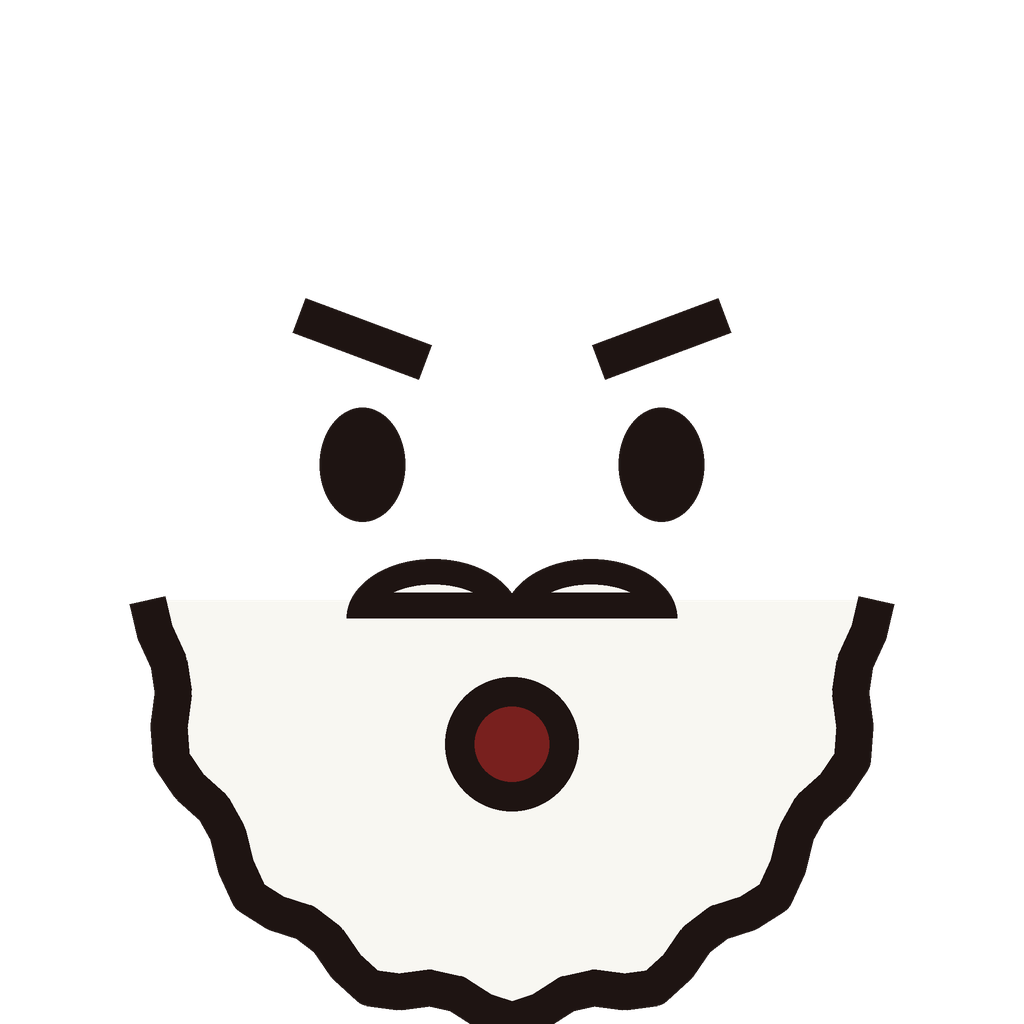
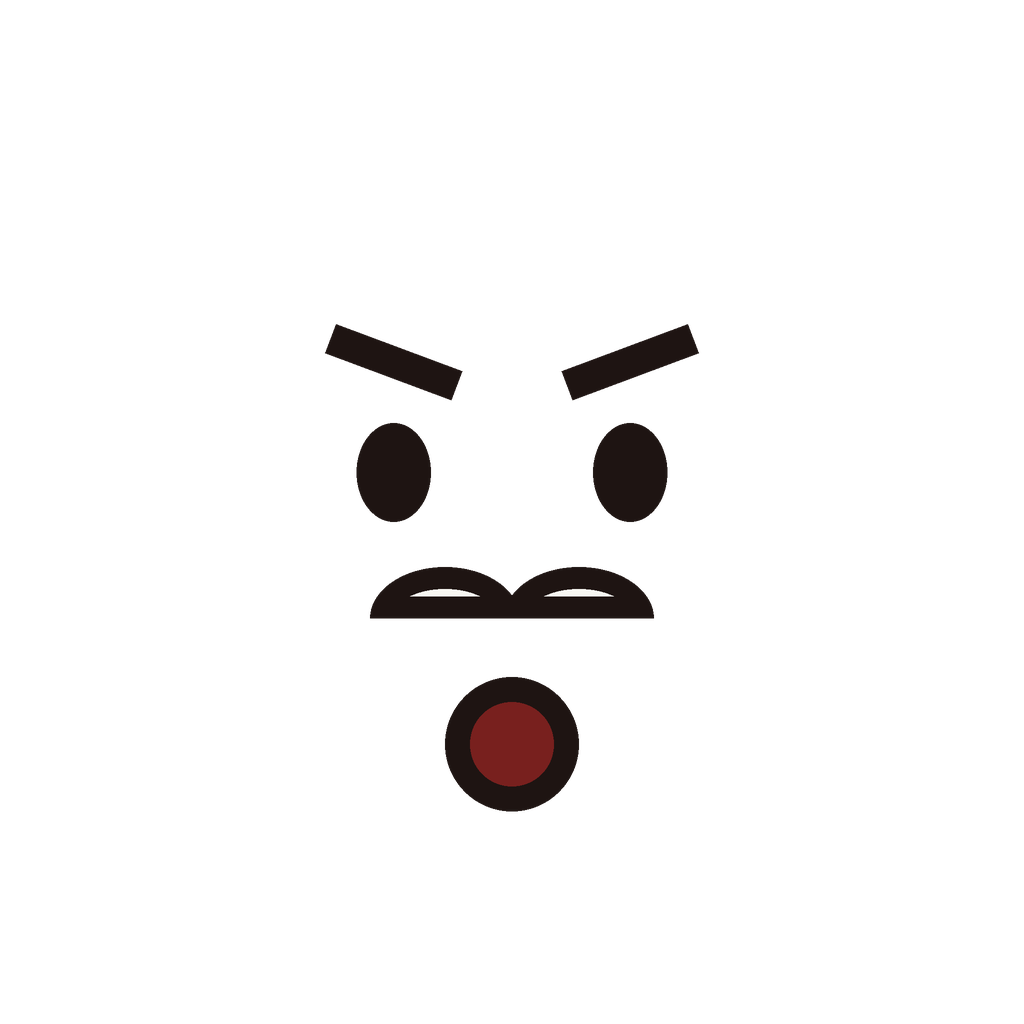
Add fast bake pipeline and character redesign (WIP)
Bake lighting and ink lines into a texture atlas, render frames with
Workbench. Bowl-cut hair, knit beanie, 3D beard, pose presets, more
expressions.

Claude-Session: https://claude.ai/code/session_01B5sgCVepJEDXiVLGvcjf3z

diff --git a/production/pipeline/characters.py b/production/pipeline/characters.py
@@ -55,15 +55,34 @@ class Character:
         # head
         hz=z_t+torso/2+R*0.82; self.head_z=hz
         head=sph((0,0,hz),(R,R*0.93,R*0.97),mat("skin",SKIN,0.45,0.45,emit=0.55),seg=48); self.part(head,0.013)
-        if hair: self.part(sph((0,0.04,hz+R*0.25),(R*1.04,R*0.98,R*0.78),mat(self.name+"_hair",hair,0.55,0.35),seg=40),0.012)
+        if hair:
+            import bmesh
+            o=sph((0,0,hz),(R*1.05,R*0.98,R*1.02),mat(self.name+"_hair",hair,0.5,0.4),seg=48)
+            bm=bmesh.new(); bm.from_mesh(o.data)
+            cut=bmesh.ops.bisect_plane(bm,geom=bm.verts[:]+bm.edges[:]+bm.faces[:],plane_co=(0,0,R*0.18),plane_no=(0,-0.45,1.0),clear_inner=True)
+            bm.to_mesh(o.data); bm.free(); self.part(o)
+            sol=o.modifiers.new("th",'SOLIDIFY'); sol.thickness=R*0.06; sol.offset=1
+            o["no_ink"]=1
         if hat=="cap":
             hc=(0.17,0.3,0.62); self.part(sph((0,0.01,hz+R*0.5),(R*1.02,R*0.98,R*0.62),mat(self.name+"_cap",hc,0.5,0.3),seg=40),0.012)
             bill=cyl((0,-R*0.95,hz+R*0.42),R*0.62,0.025,mat(self.name+"_cap",hc,0.5,0.3),verts=40,rot=(0.15,0,0)); bill.scale=(1,0.55,1); self.part(bill,0.008)
             self.part(sph((0,-R*0.92,hz+R*0.72),(0.03,0.012,0.03),mat("brass",(0.85,0.6,0.15),0.3,0.6)))
+        if hat=="beanie":
+            bc=mat(self.name+"_beanie",(0.82,0.12,0.12),0.85,0.1)
+            import bmesh
+            o=sph((0,0,hz),(R*1.06,R*1.02,R*1.12),bc,seg=48); bm=bmesh.new(); bm.from_mesh(o.data)
+            bmesh.ops.bisect_plane(bm,geom=bm.verts[:]+bm.edges[:]+bm.faces[:],plane_co=(0,0,R*0.38),plane_no=(0,-0.15,1),clear_inner=True); bm.to_mesh(o.data); bm.free(); self.part(o)
+            cuff=cyl((0,0.01,hz+R*0.42),R*1.09,R*0.32,mat(self.name+"_cuff",(0.72,0.08,0.08),0.9,0.05),verts=48,rot=(-0.15,0,0),bevel=0); self.part(cuff)
+            self.part(sph((0,0.03,hz+R*1.18),(R*0.24,R*0.24,R*0.24),mat(self.name+"_pom",(0.97,0.95,0.9),0.95,0.05),seg=20))
         if hat=="souwester":
             hc=(1.0,0.66,0.02); m=mat(self.name+"_hat",hc,0.35,0.5)
             self.part(sph((0,0.04,hz+R*0.62),(R*1.0,R*0.96,R*0.66),m,seg=40),0.012)
             brim=cyl((0,0.1,hz+R*0.62),R*1.3,0.07,m,verts=48,r2=R*0.98,rot=(-0.3,0,0)); self.part(brim,0.01)
+        if self.beard:
+            bw=mat("beard",(0.97,0.96,0.93),0.9,0.1,emit=0.35)
+            self.part(sph((0,-R*0.3,hz-R*0.5),(R*0.92,R*0.62,R*0.72),bw,seg=40))
+            for k,(bx,bz) in enumerate([(-0.55,-0.95),(0,-1.1),(0.55,-0.95)]):
+                self.part(sph((R*bx,-R*0.35,hz+R*bz),(R*0.36,R*0.32,R*0.3),bw,seg=24))
         # face decal: always looks at the camera
         piv=bpy.data.objects.new(self.name+"_facepiv",None); self.faces_coll.objects.link(piv); piv.parent=self.root; piv.location=(0,0,hz)
         con=piv.constraints.new('TRACK_TO'); con.target=bpy.context.scene.camera; con.track_axis='TRACK_Z'; con.up_axis='UP_Y'
@@ -76,7 +95,7 @@ class Character:
         for l in me.loops:
             co=me.vertices[l.vertex_index].co; uv.data[l.index].uv=(co.x/(2.6*R)+0.5,co.y/(2.6*R)+0.5)
         fp=bpy.data.objects.new(self.name+"_face",me)
-        self.faces_coll.objects.link(fp); fp.parent=piv; fp.location=(0,0,R*1.03); fp.visible_shadow=False
+        self.faces_coll.objects.link(fp); fp.parent=piv; fp.location=(0,0,R*(1.12 if self.beard else 1.03)); fp.visible_shadow=False
         self.face_mat=image_mat(self.name+"_facemat",f"{FACEDIR}/{self.name}_{self.face_name}.png",emit=0.6,rough=0.9)
         fp.data.materials.append(self.face_mat); self.face_obj=fp
         # legs + shoes
@@ -88,15 +107,27 @@ class Character:
             if pts is None: pts=[(0.05,0,-0.02),(0.12,-0.02,-0.25),(0.14,-0.05,-0.5)]
             P=[(side*(self.sh_x+a),b,self.sh_z+c) for a,b,c in pts]
             self.limb(tube([(side*(self.sh_x-0.04),0,self.sh_z)]+P,0.011,mat("limb",legs,0.6)))
-            self.limb(sph(P[-1],(0.03,0.03,0.03),mat("limb",legs,0.6)))
+            self.limb(sph(P[-1],(0.017,0.017,0.017),mat("limb",legs,0.6)))
         return self
     def set_face(self,face):
         img=bpy.data.images.load(f"{FACEDIR}/{self.name}_{face}.png",check_existing=True)
         for n in self.face_mat.node_tree.nodes:
             if n.type=='TEX_IMAGE': n.image=img
 
-def keeper(loc,yaw=0,face="smug",arms=None):
-    return Character("keeper",loc,yaw,face=face).build(R=0.26,coat=(1.0,0.66,0.02),buttons=3,hat="souwester",beard=True,
+POSES={  # per arm: points relative to the shoulder (x outward, y forward is negative, z up)
+ "rest":  ([(0.05,0,-0.05),(0.1,-0.02,-0.28),(0.12,-0.04,-0.5)],)*2,
+ "hips":  ([(0.08,0,-0.06),(0.2,0.02,-0.2),(0.04,-0.04,-0.36)],)*2,
+ "shrug": ([(0.08,0,-0.06),(0.17,-0.02,-0.22),(0.32,-0.08,-0.08)],)*2,
+ "panic": ([(0.08,0,0.02),(0.16,-0.04,0.2),(0.2,-0.08,0.44)],)*2,
+ "hold":  ([(0.05,-0.04,-0.06),(0.08,-0.18,-0.22),(0.0,-0.34,-0.16)],)*2,
+ "point": ([(0.05,0,-0.05),(0.1,-0.02,-0.28),(0.12,-0.04,-0.5)],[(0.08,-0.06,-0.02),(0.18,-0.22,0.02),(0.3,-0.42,0.1)]),
+ "wave":  ([(0.05,0,-0.05),(0.1,-0.02,-0.28),(0.12,-0.04,-0.5)],[(0.08,0,0.0),(0.2,-0.02,0.08),(0.26,-0.06,0.34)]),
+ "explain":([(0.05,-0.03,-0.06),(0.12,-0.16,-0.18),(0.24,-0.3,-0.08)],[(0.05,0,-0.05),(0.1,-0.02,-0.28),(0.12,-0.04,-0.5)]),
+}
+def keeper(loc,yaw=0,face="smug",arms=None,pose=None):
+    arms=list(POSES[pose]) if pose else arms
+    return Character("keeper",loc,yaw,face=face).build(R=0.3,torso_w=0.16,coat=(1.0,0.66,0.02),buttons=3,hat="beanie",beard=True,
         shirt=(1.0,0.66,0.02),shoes=(0.08,0.06,0.05),arms=arms)
-def engineer(loc,yaw=0,face="happy",arms=None):
-    return Character("engineer",loc,yaw,face=face).build(R=0.25,hat="cap",tie=(0.17,0.32,0.68),arms=arms)
+def engineer(loc,yaw=0,face="happy",arms=None,pose=None):
+    arms=list(POSES[pose]) if pose else arms
+    return Character("engineer",loc,yaw,face=face).build(R=0.29,torso_w=0.15,hair=(0.4,0.22,0.1),tie=(0.17,0.32,0.68),arms=arms)

diff --git a/production/pipeline/bake.py b/production/pipeline/bake.py
@@ -1,0 +1,109 @@
+"""Fast pipeline: bake lighting + ink lines into one texture atlas, then render frames with Workbench (~1 s/frame)."""
+import bpy, bmesh, math, os, time
+import numpy as np
+from toon import INK
+
+def to_mesh(objs):
+    bpy.ops.object.select_all(action='DESELECT')
+    for o in objs: o.select_set(True)
+    bpy.context.view_layer.objects.active=objs[0]
+    bpy.ops.object.convert(target='MESH')
+    return [o for o in bpy.context.selected_objects]
+
+def unwrap(objs,margin=0.003):
+    for o in objs:
+        if "bake" not in o.data.uv_layers:
+            if len(o.data.uv_layers)==0: o.data.uv_layers.new(name="UVMap")
+            o.data.uv_layers[0].active_render=True
+            uv=o.data.uv_layers.new(name="bake")
+        o.data.uv_layers.active=o.data.uv_layers["bake"]
+    bpy.ops.object.select_all(action='DESELECT')
+    for o in objs: o.select_set(True)
+    bpy.context.view_layer.objects.active=objs[0]
+    bpy.ops.object.mode_set(mode='EDIT'); bpy.ops.mesh.select_all(action='SELECT')
+    bpy.ops.uv.smart_project(angle_limit=math.radians(48),island_margin=margin,area_weight=0.0,correct_aspect=True,scale_to_bounds=False)
+    bpy.ops.object.mode_set(mode='OBJECT')
+
+def _target(objs,img):
+    seen=set()
+    for o in objs:
+        for m in o.data.materials:
+            if not m or m.name in seen: continue
+            seen.add(m.name); nt=m.node_tree
+            n=nt.nodes.get("__bake") or nt.nodes.new('ShaderNodeTexImage'); n.name="__bake"; n.image=img
+            for x in nt.nodes: x.select=False
+            n.select=True; nt.nodes.active=n
+
+def bake_pass(objs,kind,size,samples,filt=None,float_buf=True):
+    img=bpy.data.images.new(f"bake_{kind}_{'_'.join(sorted(filt or []))}",size,size,float_buffer=float_buf,alpha=False)
+    _target(objs,img); sc=bpy.context.scene; sc.render.engine='CYCLES'; sc.cycles.samples=samples; sc.cycles.use_denoising=False
+    sc.render.bake.margin=6; sc.render.bake.use_clear=True
+    bpy.ops.object.select_all(action='DESELECT')
+    for o in objs: o.select_set(True)
+    bpy.context.view_layer.objects.active=objs[0]
+    t=time.time()
+    if filt: bpy.ops.object.bake(type=kind,pass_filter=set(filt))
+    else: bpy.ops.object.bake(type=kind)
+    print(f"BAKE {kind} {filt} {size}px {samples}spp {time.time()-t:.1f}s",flush=True)
+    return img
+
+def img_np(img):
+    a=np.empty(img.size[0]*img.size[1]*4,np.float32); img.pixels.foreach_get(a); return a.reshape(img.size[1],img.size[0],4)[...,:3]
+
+def ink_mask(objs,size,width_px,min_angle=40,skip=()):
+    """Rasterise sharp edges (crease > min_angle, or open borders) in bake-UV space -> ink line mask."""
+    from PIL import Image, ImageDraw
+    m=Image.new("L",(size,size),0); d=ImageDraw.Draw(m)
+    for o in objs:
+        if o.name.startswith(skip) or o.get("no_ink"): continue
+        bm=bmesh.new(); bm.from_mesh(o.data); uvl=bm.loops.layers.uv["bake"]
+        for f in bm.faces:
+            for l in f.loops:
+                e=l.edge
+                if len(e.link_faces)==2:
+                    ang=math.degrees(e.calc_face_angle(0))
+                    if ang<min_angle: continue
+                a=l[uvl].uv; b=l.link_loop_next[uvl].uv
+                d.line([(a.x*size,(1-a.y)*size),(b.x*size,(1-b.y)*size)],fill=255,width=width_px)
+        bm.free()
+    return np.asarray(m,np.float32)/255.0
+
+def compose(alb,light,emit,ink,exposure=1.0,sat=1.15):
+    """final = albedo * light + emission, gentle filmic curve, saturation, ink lines."""
+    import cv2  # only for fast resize
+    H=alb.shape[0]
+    L=cv2.resize(light,(H,H),interpolation=cv2.INTER_CUBIC); E=cv2.resize(emit,(H,H),interpolation=cv2.INTER_CUBIC)
+    c=alb*L*exposure+E
+    c=c/(1+0.35*c)*1.35            # soft shoulder so lamps/sun don't clip harshly
+    c=np.clip(c,0,1)**(1/2.2)      # linear -> display
+    g=c.mean(-1,keepdims=True); c=np.clip(g+(c-g)*sat,0,1)
+    k=cv2.GaussianBlur(ink,(0,0),0.8)[...,None]
+    c=c*(1-k)+np.array([x**(1/2.2) for x in INK])*k
+    return c
+
+def apply_baked(objs,final,name="atlas"):
+    """Swap every material for one flat texture material using the baked atlas (what Workbench shows)."""
+    H=final.shape[0]; img=bpy.data.images.new(name,H,H,alpha=False)
+    rgba=np.concatenate([final[::-1],np.ones((H,H,1),np.float32)],-1)   # numpy rows top->bottom, Blender bottom->top
+    img.pixels.foreach_set(rgba.astype(np.float32).ravel()); img.pack()
+    m=bpy.data.materials.new(name); m.use_nodes=True; nt=m.node_tree; n=nt.nodes; n.clear()
+    out=n.new('ShaderNodeOutputMaterial'); em=n.new('ShaderNodeEmission'); uv=n.new('ShaderNodeUVMap'); uv.uv_map="bake"
+    t=n.new('ShaderNodeTexImage'); t.image=img; nt.links.new(uv.outputs[0],t.inputs[0]); nt.links.new(t.outputs[0],em.inputs[0]); nt.links.new(em.outputs[0],out.inputs[0]); n.active=t
+    for o in objs:
+        o.data.materials.clear(); o.data.materials.append(m)
+        o.data.uv_layers["bake"].active_render=True
+    return m
+
+def ink_shell(objs,thick=0.008,min_dim=0.0):
+    """Inverted-hull silhouette lines; with Workbench backface culling only the back shell shows -> outline."""
+    hm=bpy.data.materials.get("inkshell") or bpy.data.materials.new("inkshell")
+    hm.diffuse_color=(*INK,1)
+    for o in objs:
+        if o.get("no_shell"): continue
+        o.data.materials.append(hm); s=o.modifiers.new("shell",'SOLIDIFY'); s.thickness=thick; s.offset=1; s.use_flip_normals=True; s.material_offset=len(o.data.materials)-1; s.use_rim=False
+
+def workbench(sc,aa='8'):
+    sc.render.engine='BLENDER_WORKBENCH'; sh=sc.display.shading
+    sh.light='FLAT'; sh.color_type='TEXTURE'; sh.show_backface_culling=True; sh.show_object_outline=False
+    sh.show_cavity=False; sh.show_shadows=False; sc.display.render_aa=aa
+    sc.view_settings.view_transform='Standard'; sc.view_settings.look='None'; sc.view_settings.exposure=0

diff --git a/production/pipeline/faces.py b/production/pipeline/faces.py
@@ -6,8 +6,8 @@ INK=(30,20,18,255); WHITE=(255,255,255,255)
 S=2048; C=S//2; RP=S/2.6          # pixels per head radius
 def P(x,y): return (C+x*RP, C-y*RP)
 def box(x0,y0,x1,y1): a=P(x0,y1); b=P(x1,y0); return [a[0],a[1],b[0],b[1]]
-LW=int(0.095*RP)
-def eyes(d,kind,ex=0.38,ey=0.12,size=1.45):
+LW=int(0.08*RP)
+def eyes(d,kind,ex=0.3,ey=0.1,size=1.25):
     for s in (-1,1):
         x=s*ex
         if kind=="dot": d.ellipse(box(x-0.075*size,ey-0.1*size,x+0.075*size,ey+0.1*size),fill=INK)
@@ -18,12 +18,15 @@ def eyes(d,kind,ex=0.38,ey=0.12,size=1.45):
         elif kind=="happy": d.arc(box(x-0.18,ey-0.15,x+0.18,ey+0.18),200,340,fill=INK,width=LW)
         elif kind=="closed": d.line([P(x-0.17,ey-0.02),P(x+0.17,ey-0.02)],fill=INK,width=LW)
         elif kind=="squint": d.line([P(x-0.13,ey+0.04),P(x+0.13,ey-0.04*s*-1)],fill=INK,width=LW)
-def brows(d,kind,ex=0.38,by=0.42):
+def brows(d,kind,ex=0.3,by=0.36):
     for s in (-1,1):
         x=s*ex
         if kind=="flat": d.line([P(x-0.15,by),P(x+0.15,by)],fill=INK,width=LW)
         elif kind=="up": d.arc(box(x-0.16,by-0.08,x+0.16,by+0.14),200,340,fill=INK,width=LW)
         elif kind=="angry": d.line([P(x-0.16,by+(0.08 if s<0 else -0.04)),P(x+0.16,by+(-0.04 if s<0 else 0.08))],fill=INK,width=LW)
+        elif kind=="skeptical":
+            if s<0: d.arc(box(x-0.16,by-0.02,x+0.16,by+0.24),200,340,fill=INK,width=LW)
+            else: d.line([P(x-0.16,by-0.04),P(x+0.16,by-0.04)],fill=INK,width=LW)
         elif kind=="worried": d.line([P(x-0.16,by+(-0.04 if s<0 else 0.08)),P(x+0.16,by+(0.08 if s<0 else -0.04))],fill=INK,width=LW)
 def mouth(d,kind,my=-0.4):
     if kind=="smirk": d.arc(box(-0.18,my-0.06,0.32,my+0.22),20,150,fill=INK,width=LW)
@@ -49,18 +52,23 @@ def beard(d):
     d.line(pts,fill=INK,width=LW,joint="curve")
     d.chord(box(-0.42,-0.42,0.02,-0.12),180,360,fill=BW,outline=INK,width=int(LW*0.7))
     d.chord(box(-0.02,-0.42,0.42,-0.12),180,360,fill=BW,outline=INK,width=int(LW*0.7))
-def glasses(d,ex=0.38,ey=0.12):
-    for s in (-1,1): d.ellipse(box(s*ex-0.25,ey-0.25,s*ex+0.25,ey+0.25),outline=INK,width=int(LW*0.8))
-    d.line([P(-0.13,ey),P(0.13,ey)],fill=INK,width=int(LW*0.7))
+def moustache(d):
+    BW=(248,247,242,255)
+    d.chord(box(-0.36,-0.4,0.02,-0.14),180,360,fill=BW,outline=INK,width=int(LW*0.7))
+    d.chord(box(-0.02,-0.4,0.36,-0.14),180,360,fill=BW,outline=INK,width=int(LW*0.7))
+def glasses(d,ex=0.3,ey=0.1):
+    for s in (-1,1): d.ellipse(box(s*ex-0.21,ey-0.21,s*ex+0.21,ey+0.21),outline=INK,width=int(LW*0.8))
+    d.line([P(-0.09,ey),P(0.09,ey)],fill=INK,width=int(LW*0.7))
 def make(path,e,m,b=None,extra=()):
     im=Image.new("RGBA",(S,S),(0,0,0,0)); d=ImageDraw.Draw(im)
-    if "beard" in extra: beard(d)
+    if "beard" in extra: moustache(d)
     eyes(d,e); brows(d,b) if b else None; mouth(d,m,-0.5 if "beard" in extra else -0.42)
     if "glasses" in extra: glasses(d)
     im.resize((1024,1024),Image.LANCZOS).save(path)
 EXPR={"smug":("smug","smirk","flat"),"happy":("happy","grin",None),"neutral":("dot","flat","flat"),
       "shock":("wide","open","up"),"angry":("dot","shout","angry"),"worried":("dot","frown","worried"),
-      "laugh":("happy","open",None),"sleepy":("closed","flat",None)}
+      "laugh":("happy","open",None),"sleepy":("closed","flat",None),
+      "skeptical":("dot","flat","skeptical"),"evil":("smug","smirk","angry"),"panic":("wide","shout","worried")}
 def build(name,extra,outdir):
     os.makedirs(outdir,exist_ok=True)
     for k,(e,m,b) in EXPR.items(): make(f"{outdir}/{name}_{k}.png",e,m,b,extra)

diff --git a/production/pipeline/fast_test.py b/production/pipeline/fast_test.py
@@ -1,0 +1,37 @@
+import bpy, sys, os, time, math
+sys.path.insert(0,os.path.dirname(os.path.abspath(__file__)))
+os.environ.setdefault("FAST","1")
+from toon import *
+from sets import cottage
+import characters as ch, bake
+OUT=sys.argv[-1]; T0=time.time()
+sc=reset(pct=100)
+cam,tgt=camera(sc,(1.25,-2.9,1.4),(-0.05,0.45,1.15),lens=34,fstop=5.6,focus=3.4)
+os.environ.update(SUN="4",KEY="6000",FILL="12",FRONT="25")
+cottage.build(); cottage.lights()
+ch.keeper((-0.45,0.25,0),yaw=math.radians(-25),face="smug",arms=[[(0.06,0,-0.05),(0.13,-0.03,-0.28),(0.16,-0.06,-0.5)],[(0.06,0,-0.05),(0.2,-0.05,-0.2),(0.34,-0.1,-0.02)]])
+ch.engineer((0.5,0.65,0),yaw=math.radians(-40),face="happy",arms=[[(0.05,-0.02,-0.04),(0.16,-0.12,-0.12),(0.3,-0.25,0.08)],[(0.05,0,-0.05),(0.1,-0.02,-0.28),(0.11,-0.04,-0.5)]])
+faces=set(bpy.data.collections["faces"].all_objects)
+objs=[o for o in sc.objects if o.type in ('MESH','CURVE') and o not in faces]
+objs=bake.to_mesh(objs); objs=[o for o in objs if o.type=='MESH']
+print("objects",len(objs),"build",round(time.time()-T0,1),flush=True)
+t=time.time(); bake.unwrap(objs); print("UNWRAP",round(time.time()-t,1),flush=True)
+AS=int(os.environ.get("ATLAS","4096")); LS=int(os.environ.get("LIGHT","2048")); SPP=int(os.environ.get("SPP","32"))
+alb=bake.img_np(bake.bake_pass(objs,'DIFFUSE',AS,1,['COLOR']))
+lit=bake.img_np(bake.bake_pass(objs,'DIFFUSE',LS,SPP,['DIRECT','INDIRECT']))
+emi=bake.img_np(bake.bake_pass(objs,'EMIT',LS,1))
+t=time.time(); ink=bake.ink_mask(objs,AS,int(os.environ.get("INKW","5")),skip=("view","keeper","engineer","limb","tube","rug","curtain"))
+print("INK",round(time.time()-t,1),flush=True)
+# light can be noisy at low spp: smooth it a little (shadow edges stay readable)
+import cv2, numpy as np
+lit=cv2.bilateralFilter(lit,7,0.15,4)
+final=bake.compose(alb,lit,emi,ink,exposure=float(os.environ.get("EXPO","1.0")),sat=float(os.environ.get("SAT","1.2")))
+cv2.imwrite(OUT+"_atlas.jpg",(final[...,::-1]*255).astype(np.uint8)[::4,::4])
+bake.apply_baked(objs,final)
+shell_objs=[o for o in objs]
+bake.ink_shell(shell_objs,float(os.environ.get("SHELL","0.008")))
+bake.workbench(sc)
+bpy.ops.wm.save_as_mainfile(filepath=OUT+".blend")
+print("PREP TOTAL",round(time.time()-T0,1),flush=True)
+for i in range(3):
+    sc.render.filepath=f"{OUT}_f{i}.png"; t=time.time(); bpy.ops.render.render(write_still=True); print("FRAME",round(time.time()-t,2),flush=True)

diff --git a/production/pipeline/toon.py b/production/pipeline/toon.py
@@ -44,9 +44,10 @@ def image_mat(name,path,emit=0.0,alpha=True,rough=0.8):
     if alpha: link(nt,t.outputs['Alpha'],p.inputs['Alpha'])
     return m
 
+FAST=os.environ.get('FAST','1')=='1'   # fast pipeline: crisp boxes (no bevels), ink lines get baked into textures
 def _finish(o,m,bevel,coll):
     if m: o.data.materials.append(m)
-    if bevel:
+    if bevel and not FAST:
         b=o.modifiers.new("bevel",'BEVEL'); b.width=bevel; b.segments=2; b.limit_method='ANGLE'
     if coll:
         for c in o.users_collection: c.objects.unlink(o)
